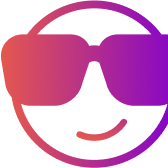
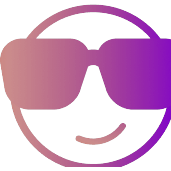
polish: чистый логотип, 2x видео-туры, статус по времени Минска, «Минск», прелоадер + премиум-анимации

diff --git a/index.html b/index.html
@@ -94,6 +94,8 @@ body{
 .cta-primary:hover::after{transform:translateX(120%)}
 .cta-primary:active{transform:translateY(0) scale(.99)}
 .cta-primary svg{flex:none}
+.cta-note{display:flex;align-items:center;justify-content:center;gap:8px;margin-top:14px;font-size:13px;font-weight:600;color:var(--ink-soft);letter-spacing:.01em}
+.cta-note i{width:7px;height:7px;border-radius:50%;background:#22C55E;box-shadow:0 0 0 3px rgba(34,197,94,.2);flex:none}
 
 /* ---------- section heading ---------- */
 .sec{margin-top:44px}
@@ -110,12 +112,14 @@ body{
   transition:transform var(--dur) var(--ease-spring),box-shadow var(--dur) var(--ease-spring);
 }
 .store:hover{transform:translateY(-2px);box-shadow:0 2px 4px rgba(28,22,34,.02),0 24px 48px -28px rgba(138,18,198,.35)}
-.store-media{position:relative;height:132px;border-radius:19px;overflow:hidden;background:var(--grad-soft)}
+.store-media{position:relative;height:272px;border-radius:19px;overflow:hidden;background:var(--grad-soft)}
 .store-media video,.store-media img{width:100%;height:100%;object-fit:cover;display:block}
 .store-media .noimg{position:absolute;inset:0;display:grid;place-items:center;background:var(--grad-soft)}
-.store-media .noimg span{font-family:"Fraunces";font-weight:900;font-size:26px;color:rgba(28,22,34,.22)}
+.store-media .noimg span{font-family:"Fraunces";font-weight:900;font-size:34px;color:rgba(28,22,34,.22)}
 .store-media .badge{position:absolute;top:12px;left:12px;background:rgba(255,255,255,.92);backdrop-filter:blur(8px);padding:7px 12px;border-radius:999px;font-weight:800;font-size:12.5px;letter-spacing:.02em;display:flex;align-items:center;gap:6px}
 .store-media .badge i{width:7px;height:7px;border-radius:50%;background:#22C55E;box-shadow:0 0 0 3px rgba(34,197,94,.2)}
+.store-media .badge.closed{color:var(--ink-soft)}
+.store-media .badge.closed i{background:#9A93A3;box-shadow:0 0 0 3px rgba(154,147,163,.2)}
 .store-body{padding:16px 14px 8px}
 .store-name{font-family:"Fraunces";font-weight:700;font-size:19px;letter-spacing:-.01em}
 .store-meta{margin-top:8px;display:flex;flex-direction:column;gap:6px}
@@ -187,10 +191,56 @@ body{
 .io{opacity:0;transform:translateY(24px)}
 .io.in{opacity:1;transform:none;transition:opacity .7s var(--ease-spring),transform .7s var(--ease-spring)}
 
-@media (prefers-reduced-motion:reduce){*{animation:none!important;transition:none!important}.io{opacity:1;transform:none}.tile img{opacity:1}}
+/* ---------- premium animation layer ---------- */
+/* дрейф фоновых пятен — «живая» атмосфера */
+.blob.a{animation:float 7s ease-in-out infinite,drift1 26s ease-in-out infinite}
+.blob.b{animation:drift2 32s ease-in-out infinite}
+.blob.c{animation:drift3 29s ease-in-out infinite}
+@keyframes drift1{50%{transform:translate(4vw,3vh) scale(1.08)}}
+@keyframes drift2{50%{transform:translate(-5vw,4vh) scale(1.1)}}
+@keyframes drift3{50%{transform:translate(3vw,-4vh) scale(1.06)}}
+/* перетекающий градиент CTA */
+.cta-primary{background:linear-gradient(115deg,var(--g1),var(--g2),var(--g3),var(--g2),var(--g1));background-size:300% 100%;animation:ctaflow 9s linear infinite}
+@keyframes ctaflow{to{background-position:-300% 0}}
+/* вращающийся ореол медальона */
+.medallion::before{content:"";position:absolute;inset:-9px;border-radius:50%;z-index:-1;
+  background:conic-gradient(from 0deg,var(--g1),var(--g2),var(--g3),var(--g1));
+  filter:blur(11px);opacity:.55;animation:plspin 9s linear infinite}
+/* каскад появления плиток каталога */
+.tile{opacity:0;transform:translateY(20px) scale(.98)}
+.tile.seen{opacity:1;transform:none;transition:opacity .6s var(--ease-spring),transform .6s var(--ease-spring)}
+
+/* ---------- preloader ---------- */
+#preloader{position:fixed;inset:0;z-index:100;background:var(--bg);display:grid;place-items:center;
+  transition:opacity .6s var(--ease-soft),transform .9s var(--ease-spring)}
+#preloader.done{opacity:0;transform:translateY(-102%);pointer-events:none}
+.pl-wrap{display:flex;flex-direction:column;align-items:center;gap:22px}
+.pl-mark{position:relative;width:104px;height:104px;display:grid;place-items:center;animation:plpop .8s var(--ease-spring) both}
+.pl-ring{position:absolute;inset:-12px;border-radius:50%;
+  background:conic-gradient(from 0deg,var(--g1),var(--g2),var(--g3),var(--g2) 75%,transparent);
+  -webkit-mask:radial-gradient(farthest-side,transparent calc(100% - 5px),#000 calc(100% - 4px));
+  mask:radial-gradient(farthest-side,transparent calc(100% - 5px),#000 calc(100% - 4px));
+  animation:plspin .95s linear infinite}
+.pl-mark img{width:70px;height:70px;animation:plbob 1.6s ease-in-out infinite}
+.pl-word{width:150px;height:auto;opacity:.9;-webkit-mask:linear-gradient(90deg,#000 40%,rgba(0,0,0,.25) 50%,#000 60%);mask:linear-gradient(90deg,#000 40%,rgba(0,0,0,.25) 50%,#000 60%);-webkit-mask-size:250% 100%;mask-size:250% 100%;animation:plshine 2s linear infinite}
+@keyframes plspin{to{transform:rotate(360deg)}}
+@keyframes plbob{0%,100%{transform:translateY(0)}50%{transform:translateY(-6px)}}
+@keyframes plpop{from{opacity:0;transform:scale(.7)}to{opacity:1;transform:scale(1)}}
+@keyframes plshine{to{-webkit-mask-position:-250% 0;mask-position:-250% 0}}
+
+@media (prefers-reduced-motion:reduce){*{animation:none!important;transition:none!important}.io{opacity:1;transform:none}.tile{opacity:1;transform:none}.tile img{opacity:1}#preloader{display:none}}
 </style>
 </head>
 <body>
+<div id="preloader" aria-hidden="true">
+  <div class="pl-wrap">
+    <div class="pl-mark">
+      <div class="pl-ring"></div>
+      <img src="assets/mark.png" alt="">
+    </div>
+    <img class="pl-word" src="assets/wordmark.png" alt="FRANTIK.BY">
+  </div>
+</div>
 <div class="bg" aria-hidden="true"><div class="blob a"></div><div class="blob b"></div><div class="blob c"></div></div>
 <div class="grain" aria-hidden="true"></div>
 
@@ -207,7 +257,7 @@ body{
       <img class="wordmark" src="assets/wordmark.png" alt="FRANTIK.BY — детская и подростковая одежда"
         onerror="this.outerHTML='frantik<span class=&quot;dot&quot;>.</span>by'">
     </h1>
-    <p class="tag" data-reveal="3">Минск · <b>3 магазина</b> · школьная коллекция 2026/2027</p>
+    <p class="tag" data-reveal="3"><svg width="14" height="14" viewBox="0 0 24 24" fill="none" stroke="currentColor" stroke-width="2.2" stroke-linecap="round" stroke-linejoin="round" style="vertical-align:-2px;margin-right:3px;color:var(--g2)"><path d="M21 10c0 7-9 13-9 13s-9-6-9-13a9 9 0 0118 0z"/><circle cx="12" cy="10" r="3"/></svg><b>Минск</b></p>
     <div class="pills" data-reveal="3">
       <span class="pill">Школьная форма</span>
       <span class="pill">Повседневное</span>
@@ -218,6 +268,7 @@ body{
       Школьная коллекция 2026/2027
       <svg width="18" height="18" viewBox="0 0 24 24" fill="none" stroke="currentColor" stroke-width="2.4" stroke-linecap="round" stroke-linejoin="round"><path d="M6 9l6 6 6-6"/></svg>
     </a>
+    <p class="cta-note" data-reveal="4"><i></i>Уже доступна во всех наших магазинах</p>
   </header>
 
   <!-- STORES -->
@@ -258,11 +309,11 @@ body{
 <script>
 /* ---------- data ---------- */
 const STORES=[
-  {id:"tivali",name:'ТЦ «Тивали»',addr:"ул. Притыцкого 29, этаж 3, место 316",hours:"10:00 – 20:00 · без выходных",open:true,
+  {id:"tivali",name:'ТЦ «Тивали»',addr:"ул. Притыцкого 29, этаж 3, место 316",hours:"10:00 – 20:00 · без выходных",openH:10,closeH:20,closedDay:null,
    map:"https://www.google.com/maps/place/Tivali+Mall/@[phone redacted],[phone redacted],17z",tel:"[phone redacted]",telView:"[phone redacted]"},
-  {id:"titan",name:'ТЦ «Титан»',addr:"пр. Дзержинского 104, этаж 3, место 112",hours:"10:00 – 21:00 · без выходных",open:true,
+  {id:"titan",name:'ТЦ «Титан»',addr:"пр. Дзержинского 104, этаж 3, место 112",hours:"10:00 – 21:00 · без выходных",openH:10,closeH:21,closedDay:null,
    map:"https://www.google.com/maps/place/Titan/@[phone redacted],[phone redacted],17z",tel:"[phone redacted]",telView:"[phone redacted]"},
-  {id:"expobel",name:'Рынок «Экспобел»',addr:"2 этаж, выход В6, ряд С, т.м 11",hours:"10:00 – 19:00 · пн — выходной",open:true,
+  {id:"expobel",name:'Рынок «Экспобел»',addr:"2 этаж, выход В6, ряд С, т.м 11",hours:"10:00 – 19:00 · пн — выходной",openH:10,closeH:19,closedDay:1,
    map:"https://www.google.com/maps/place/Expobel+Mall/@[phone redacted],[phone redacted],17z",tel:"[phone redacted]",telView:"[phone redacted]",person:"Алёна"},
 ];
 const IC={
@@ -271,15 +322,28 @@ const IC={
   route:'<svg width="17" height="17" viewBox="0 0 24 24" fill="none" stroke="currentColor" stroke-width="2.1" stroke-linecap="round" stroke-linejoin="round"><path d="M9 20l-5-2V6l5 2m0 12l6-2m-6 2V8m6 10l5 2V8l-5-2m0 12V6m0 0L9 8"/></svg>',
   phone:'<svg width="16" height="16" viewBox="0 0 24 24" fill="none" stroke="currentColor" stroke-width="2.1" stroke-linecap="round" stroke-linejoin="round"><path d="M22 16.9v3a2 [phone redacted] [phone redacted]-[phone redacted].7A2 2 0 014 2h3a2 2 0 012 1.7c.1 1 .4 1.9.7 2.8a2 2 0 01-.5 2.1L8 9.9a16 16 0 006 6l1.3-1.2a2 2 0 012.1-.5c.[phone redacted].7a2 2 0 011.7 2z"/></svg>',
 };
+/* ---------- статус магазина по времени Минска (Europe/Minsk = UTC+3) ---------- */
+function storeStatus(s){
+  const minsk=new Date(new Date().toLocaleString("en-US",{timeZone:"Europe/Minsk"}));
+  const day=minsk.getDay(), h=minsk.getHours()+minsk.getMinutes()/60;
+  const closedToday=s.closedDay===day;
+  if(!closedToday && h>=s.openH && h<s.closeH)
+    return {open:true, label:`Открыто · до ${s.closeH}:00`};
+  if(!closedToday && h<s.openH)
+    return {open:false, label:`Откроется в ${s.openH}:00`};
+  return {open:false, label:`Закрыто · открытие ${s.openH}:00`};
+}
 /* ---------- render stores ---------- */
 const storesEl=document.getElementById("stores");
-storesEl.innerHTML=STORES.map((s,i)=>`
+storesEl.innerHTML=STORES.map((s,i)=>{
+  const st=storeStatus(s);
+  return `
   <article class="store io" style="transition-delay:${i*70}ms">
     <div class="store-media">
       <video src="assets/stores/${s.id}.mp4" muted loop playsinline autoplay preload="none"
         onerror="this.style.display='none';this.parentElement.querySelector('.noimg').style.display='grid'"></video>
       <div class="noimg" style="display:none"><span>${s.name.replace(/[«»"]/g,'').trim().split(' ').pop()}</span></div>
-      <div class="badge"><i></i>Открыто сейчас</div>
+      <div class="badge${st.open?'':' closed'}"><i></i>${st.label}</div>
     </div>
     <div class="store-body">
       <div class="store-name">${s.name}</div>
@@ -293,13 +357,17 @@ storesEl.innerHTML=STORES.map((s,i)=>`
       <a class="act map" href="${s.map}" target="_blank" rel="noopener">${IC.route} Как добраться</a>
       <a class="act call" href="tel:${s.tel}">${IC.phone} ${s.telView}</a>
     </div>
-  </article>`).join("");
+  </article>`;
+}).join("");
 
 /* ---------- catalog ---------- */
 let CAT={girls:[],boys:[],updated:""};
 const grid=document.getElementById("grid"), moreBtn=document.getElementById("more"), moreR=document.getElementById("more-r");
 const BATCH=24;
 let current="girls", lbList=[], lbIdx=0, shown=0;
+const tileObs=new IntersectionObserver(es=>es.forEach(e=>{if(e.isIntersecting){e.target.classList.add("seen");tileObs.unobserve(e.target)}}),{threshold:.06,rootMargin:"0px 0px -5% 0px"});
+function countUp(el,to){if(!to){el.textContent="";return}let t0=null;const d=900;
+  requestAnimationFrame(function step(ts){t0=t0||ts;const p=Math.min(1,(ts-t0)/d);el.textContent=Math.round(to*(1-Math.pow(1-p,3)));if(p<1)requestAnimationFrame(step)})}
 
 function tileHTML(it,i){
   return `<button class="tile" data-i="${i}" aria-label="Открыть фото ${i+1}">
@@ -309,9 +377,14 @@ function tileHTML(it,i){
     </button>`;
 }
 function renderMore(){
-  const items=lbList, next=items.slice(shown, shown+BATCH);
-  grid.insertAdjacentHTML("beforeend", next.map((it,k)=>tileHTML(it,shown+k)).join(""));
+  const items=lbList, start=shown, next=items.slice(shown, shown+BATCH);
+  grid.insertAdjacentHTML("beforeend", next.map((it,k)=>tileHTML(it,start+k)).join(""));
   shown+=next.length;
+  Array.from(grid.children).slice(start).forEach((t,k)=>{
+    if(!t.classList.contains("tile"))return;
+    t.style.transitionDelay=((k%6)*45)+"ms";
+    tileObs.observe(t);
+  });
   const left=items.length-shown;
   moreBtn.hidden=left<=0;
   moreR.textContent=left>0?`ещё ${left}`:"";
@@ -336,8 +409,8 @@ document.querySelectorAll(".tab").forEach(t=>t.addEventListener("click",()=>setC
 
 fetch("catalog.json").then(r=>r.ok?r.json():Promise.reject()).then(d=>{
   CAT={girls:d.girls||[],boys:d.boys||[],updated:d.updated||""};
-  document.getElementById("n-girls").textContent=CAT.girls.length||"";
-  document.getElementById("n-boys").textContent=CAT.boys.length||"";
+  countUp(document.getElementById("n-girls"),CAT.girls.length);
+  countUp(document.getElementById("n-boys"),CAT.boys.length);
   if(CAT.updated) document.getElementById("upd").textContent="Обновлено: "+CAT.updated;
   setCat(CAT.girls.length||!CAT.boys.length?"girls":"boys");
 }).catch(()=>setCat("girls"));
@@ -365,6 +438,15 @@ lb.addEventListener("touchend",e=>{const dx=e.changedTouches[0].clientX-tx,dy=e.
 const io=new IntersectionObserver(es=>es.forEach(e=>{if(e.isIntersecting){e.target.classList.add("in");io.unobserve(e.target)}}),{threshold:.12});
 document.querySelectorAll(".io").forEach(el=>io.observe(el));
 document.getElementById("yr").textContent=new Date().getFullYear();
+
+/* ---------- preloader ---------- */
+(function(){
+  const pl=document.getElementById("preloader"); if(!pl) return;
+  const t0=performance.now(), MIN=700;
+  function hide(){ setTimeout(()=>pl.classList.add("done"), Math.max(0,MIN-(performance.now()-t0))); }
+  if(document.readyState==="complete") hide(); else window.addEventListener("load",hide);
+  setTimeout(()=>pl.classList.add("done"),4000); // страховка
+})();
 </script>
 </body>
 </html>